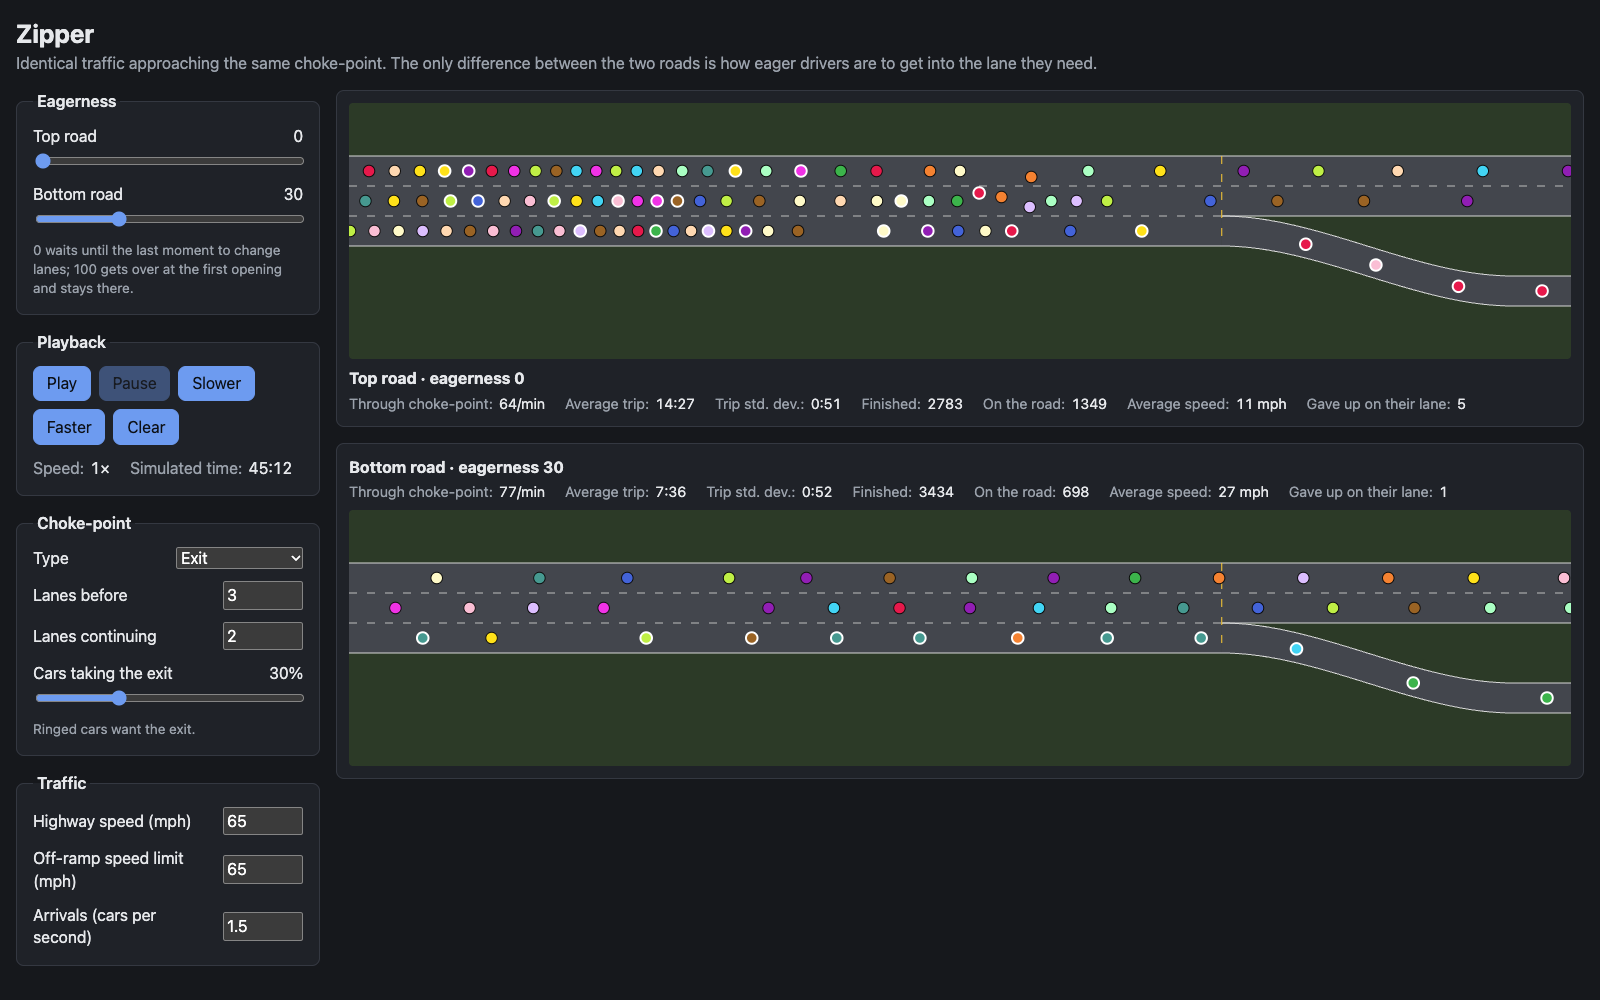
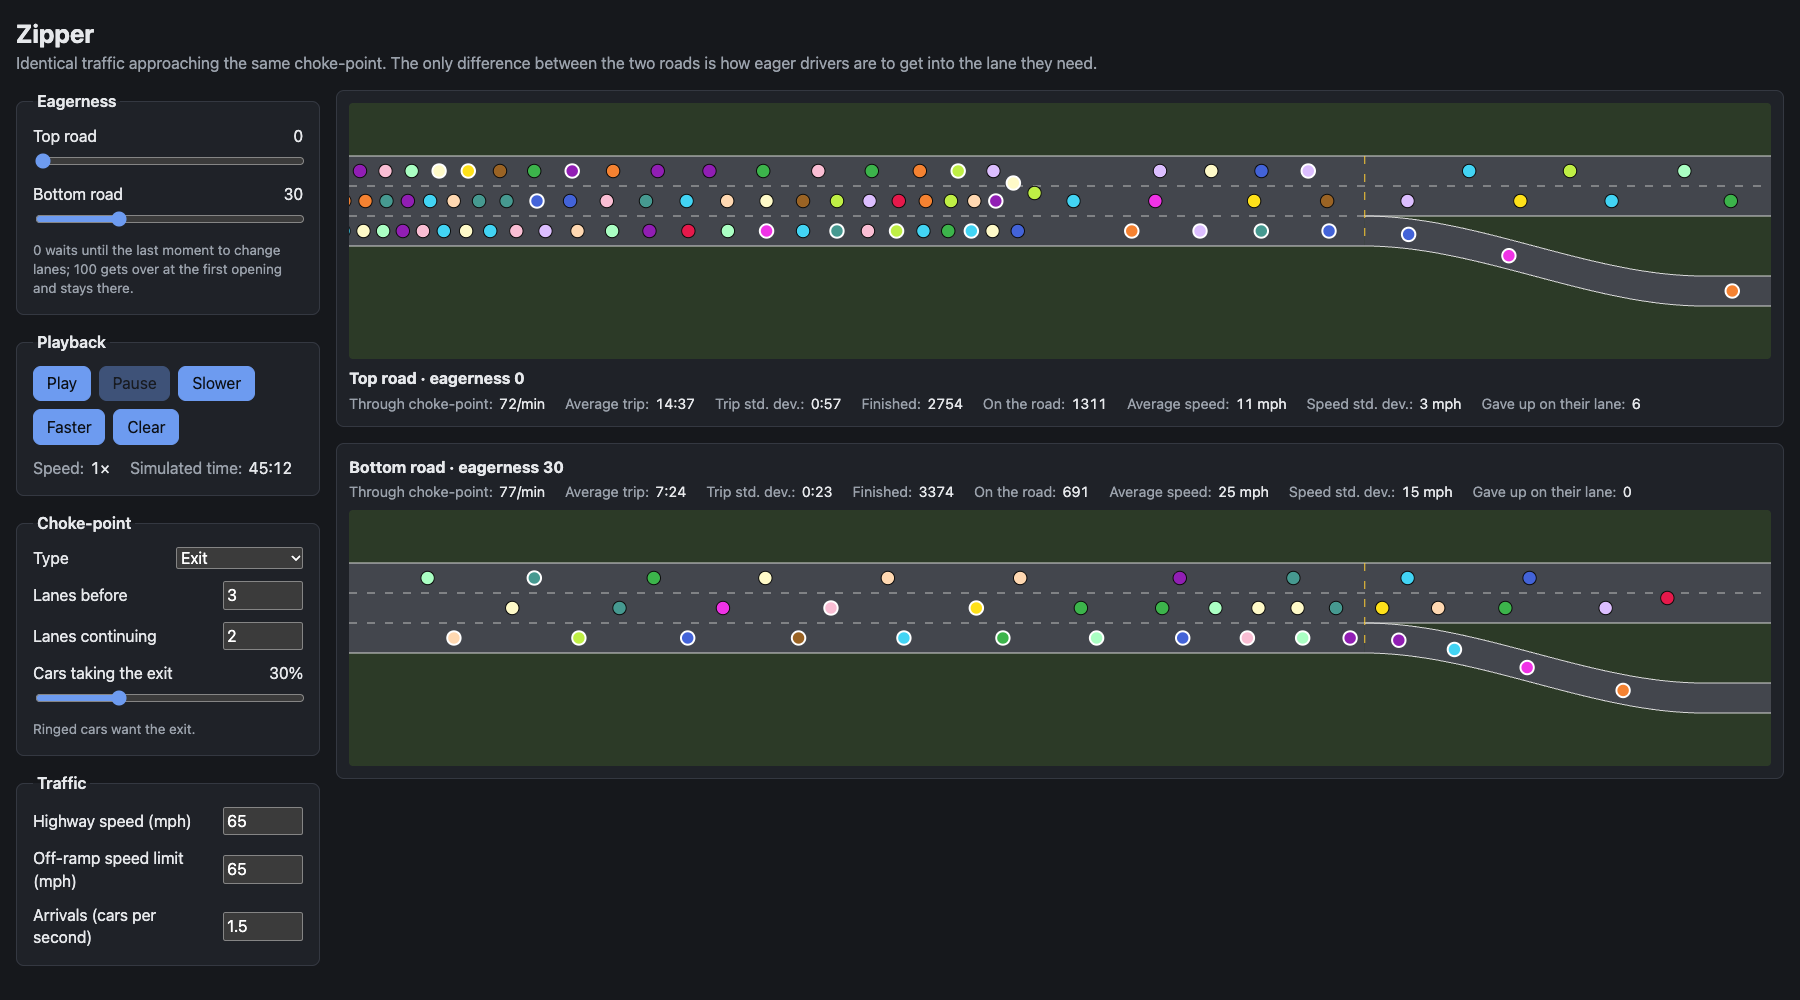
Measure speed stats over cars approaching the choke-point
Average speed now covers only cars that haven't reached the
choke-point (including any queued behind the arrival point), and a
speed standard deviation sits alongside it. Refresh the screenshot.

diff --git a/index.html b/index.html
@@ -90,7 +90,8 @@
           <div><dt>Trip std. dev.</dt><dd><output name="tripStdDevSec"></output></dd></div>
           <div><dt>Finished</dt><dd><output name="completed"></output></dd></div>
           <div><dt>On the road</dt><dd><output name="onRoad"></output></dd></div>
-          <div title="Average speed of the cars on the road right now"><dt>Average speed</dt><dd><output name="avgMph"></output> mph</dd></div>
+          <div title="Average speed of the cars not yet past the choke-point"><dt>Average speed</dt><dd><output name="avgMph"></output> mph</dd></div>
+          <div title="Standard deviation of the speeds of the cars not yet past the choke-point"><dt>Speed std. dev.</dt><dd><output name="speedStdDevMph"></output> mph</dd></div>
           <div data-exit-only><dt>Gave up on their lane</dt><dd><output name="diverted"></output></dd></div>
         </dl>
       </figcaption>
@@ -105,7 +106,8 @@
           <div><dt>Trip std. dev.</dt><dd><output name="tripStdDevSec"></output></dd></div>
           <div><dt>Finished</dt><dd><output name="completed"></output></dd></div>
           <div><dt>On the road</dt><dd><output name="onRoad"></output></dd></div>
-          <div title="Average speed of the cars on the road right now"><dt>Average speed</dt><dd><output name="avgMph"></output> mph</dd></div>
+          <div title="Average speed of the cars not yet past the choke-point"><dt>Average speed</dt><dd><output name="avgMph"></output> mph</dd></div>
+          <div title="Standard deviation of the speeds of the cars not yet past the choke-point"><dt>Speed std. dev.</dt><dd><output name="speedStdDevMph"></output> mph</dd></div>
           <div data-exit-only><dt>Gave up on their lane</dt><dd><output name="diverted"></output></dd></div>
         </dl>
       </figcaption>

diff --git a/js/simulation.js b/js/simulation.js
@@ -502,21 +502,26 @@
         this.chokePasses.shift();
       }
       const count = this.completions.length;
-      const mean = count ? this.completions.reduce((sum, c) => sum + c.trip, 0) / count : NaN;
-      const variance = count
-        ? this.completions.reduce((sum, c) => sum + (c.trip - mean) ** 2, 0) / count
+      const meanTrip = count ? this.completions.reduce((sum, c) => sum + c.trip, 0) / count : NaN;
+      const tripVariance = count
+        ? this.completions.reduce((sum, c) => sum + (c.trip - meanTrip) ** 2, 0) / count
         : NaN;
       const flowSpan = Math.max(1, Math.min(cfg.flowWindowSec, now));
-      const onRoad = this.cars.length;
-      const speedSum = this.cars.reduce((sum, car) => sum + car.v, 0);
+      // Speeds of the cars still approaching the choke-point.
+      const speeds = this.cars.filter((car) => car.x < this.chokeX).map((car) => car.v);
+      const meanSpeed = speeds.length ? speeds.reduce((sum, v) => sum + v, 0) / speeds.length : NaN;
+      const speedVariance = speeds.length
+        ? speeds.reduce((sum, v) => sum + (v - meanSpeed) ** 2, 0) / speeds.length
+        : NaN;
       return {
         eagerness: this.settings.eagerness[this.which],
-        onRoad,
-        avgMph: onRoad ? fpsToMph(speedSum / onRoad) : NaN,
+        onRoad: this.cars.length,
+        avgMph: fpsToMph(meanSpeed),
+        speedStdDevMph: fpsToMph(Math.sqrt(speedVariance)),
         completed: this.completed,
         diverted: this.diverted,
-        avgTripSec: mean,
-        tripStdDevSec: Math.sqrt(variance),
+        avgTripSec: meanTrip,
+        tripStdDevSec: Math.sqrt(tripVariance),
         flowPerMin: this.chokePasses.length * 60 / flowSpan,
       };
     }

diff --git a/js/app.js b/js/app.js
@@ -111,7 +111,7 @@
         const value = stats[output.name];
         if (output.name.endsWith('Sec')) output.value = Number.isFinite(value) ? formatClock(value) : '—';
         else if (output.name === 'flowPerMin') output.value = value.toFixed(0);
-        else if (output.name === 'avgMph') output.value = Number.isFinite(value) ? value.toFixed(0) : '—';
+        else if (output.name.endsWith('Mph')) output.value = Number.isFinite(value) ? value.toFixed(0) : '—';
         else output.value = value;
       }
     });

diff --git a/README.md b/README.md
@@ -82,8 +82,9 @@ Below each road:
   leaving the road, over the last five minutes.
 - **Finished**: how many cars have left the road.
 - **On the road**: how many cars are on the road right now.
-- **Average speed**: the average speed of the cars on the road right now,
-  including any queued up behind the arrival point.
+- **Average speed** and **Speed std. dev.**: the average and standard
+  deviation of the speeds of the cars that haven't reached the choke-point
+  yet, including any queued up behind the arrival point.
 - **Gave up on their lane** (exit only): how many drivers took the other road
   because they couldn't get into the lane they wanted.
 
